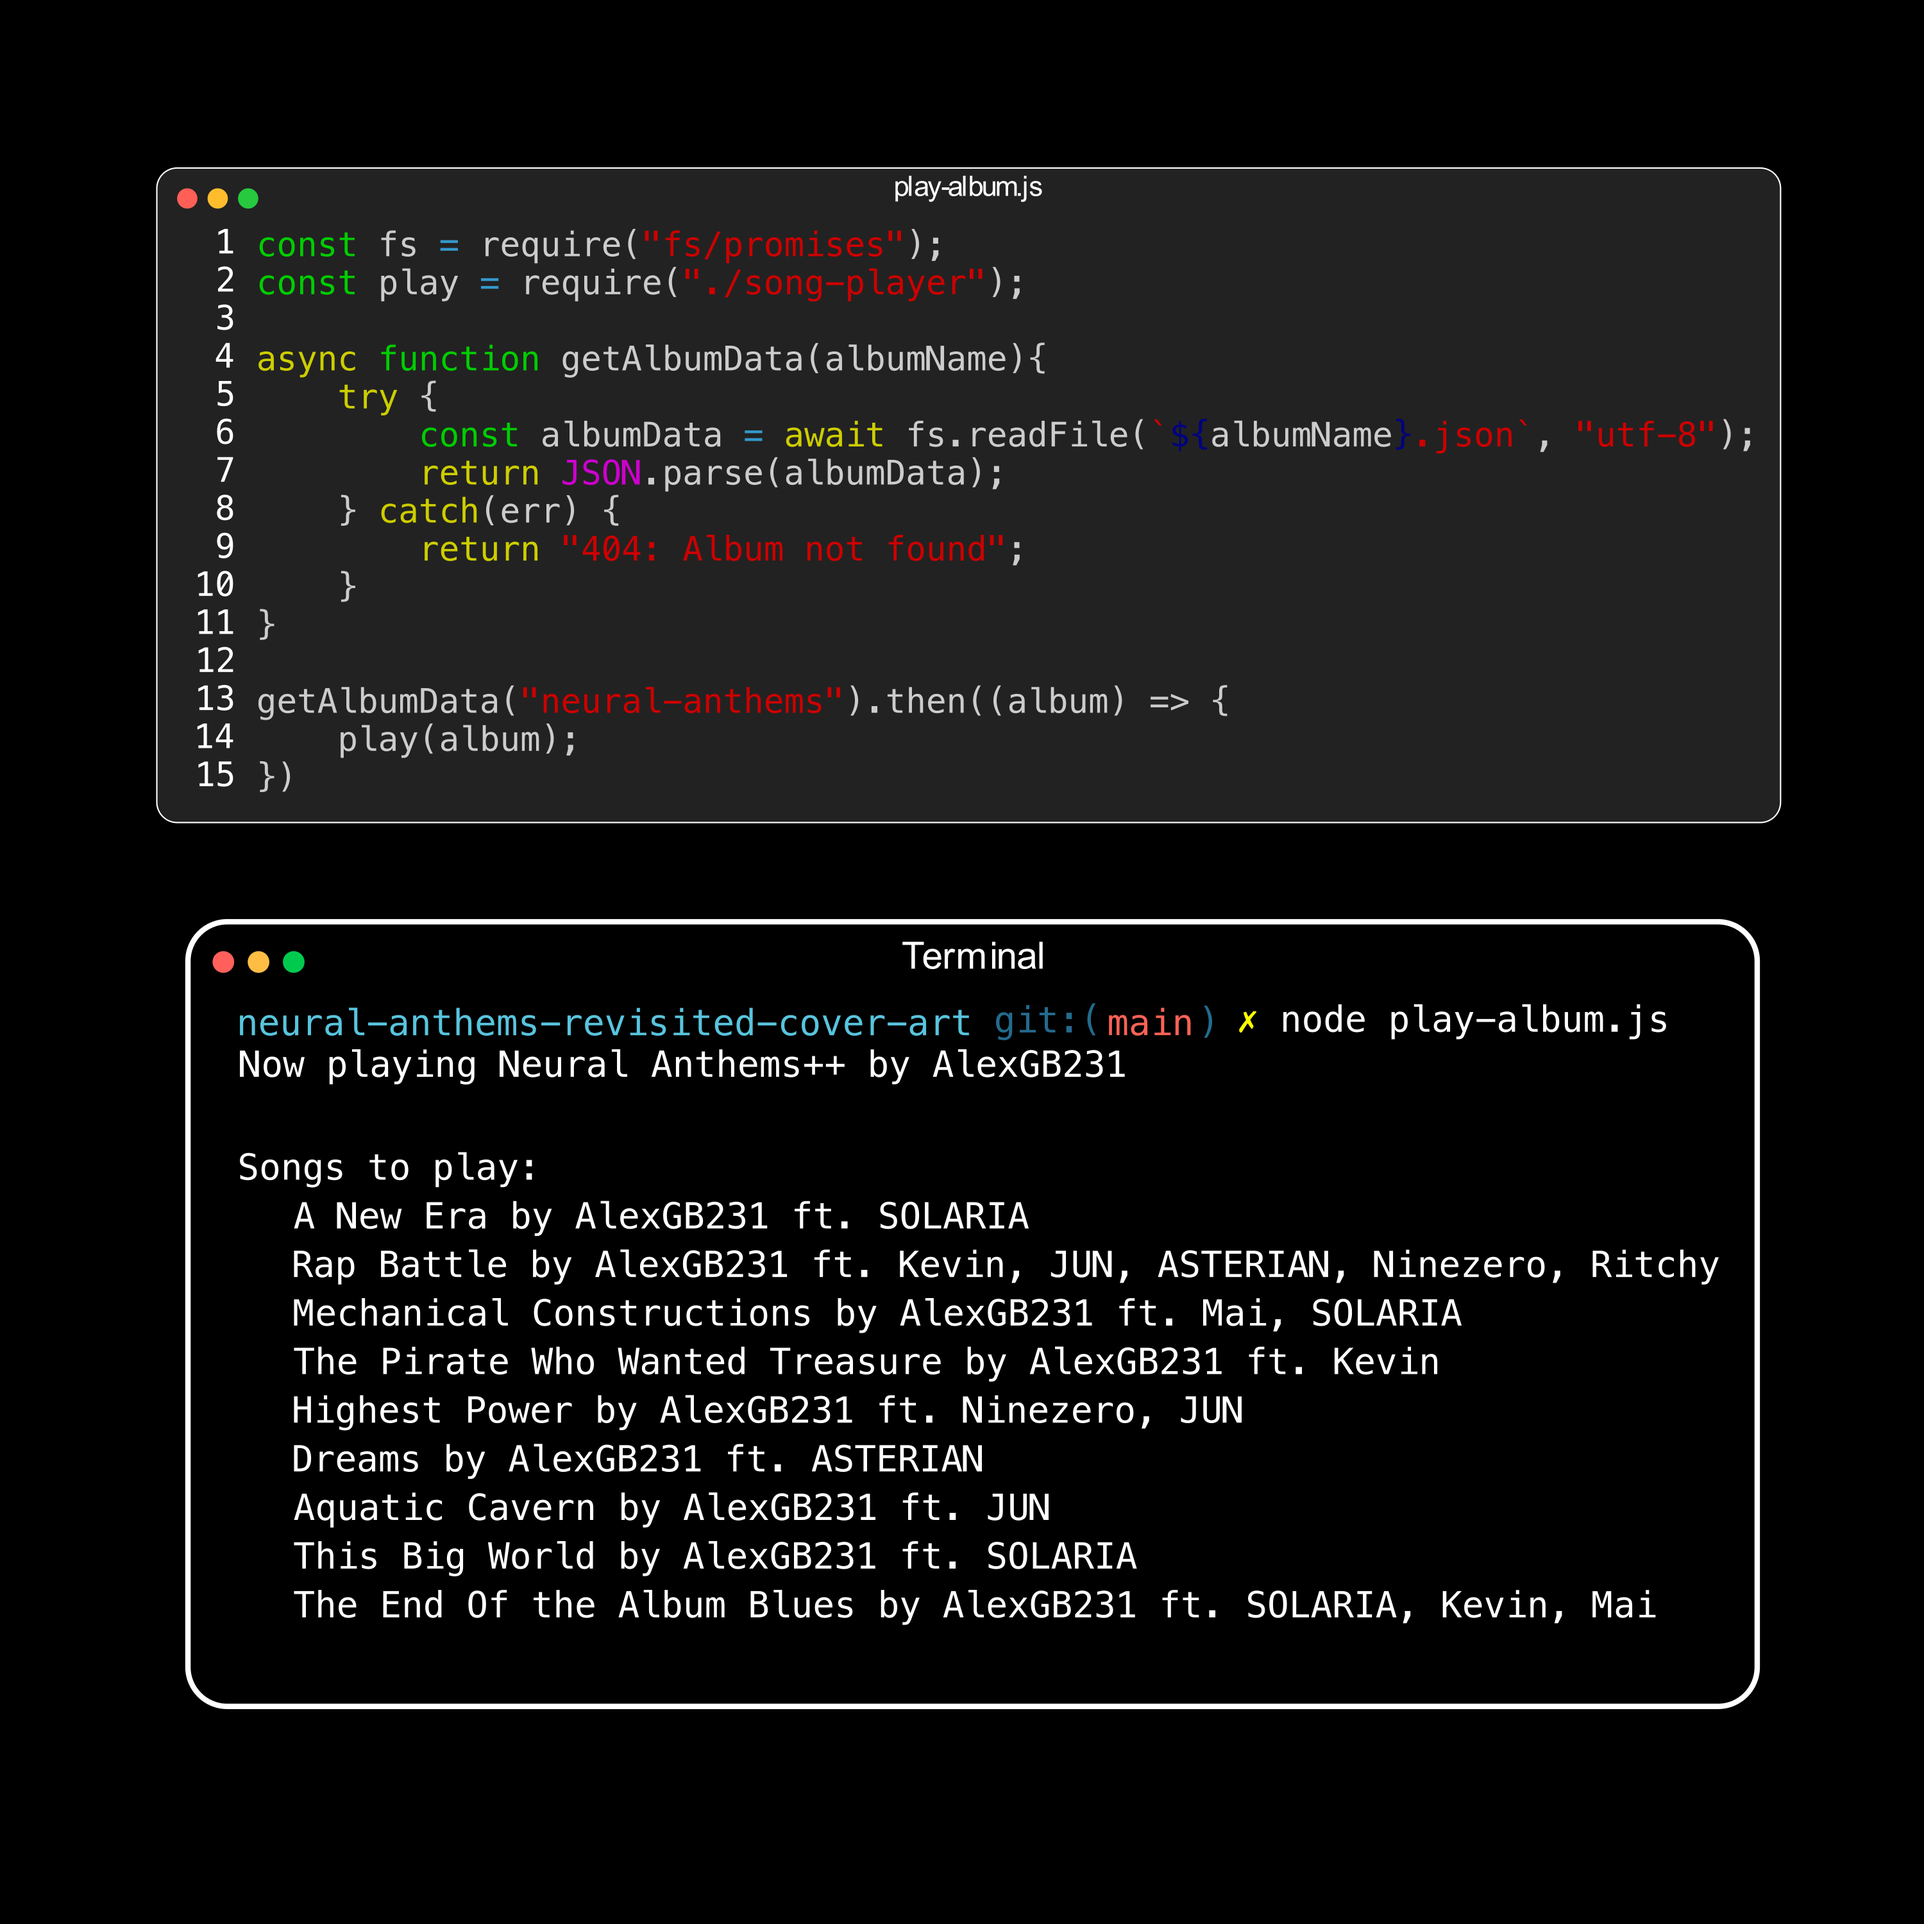
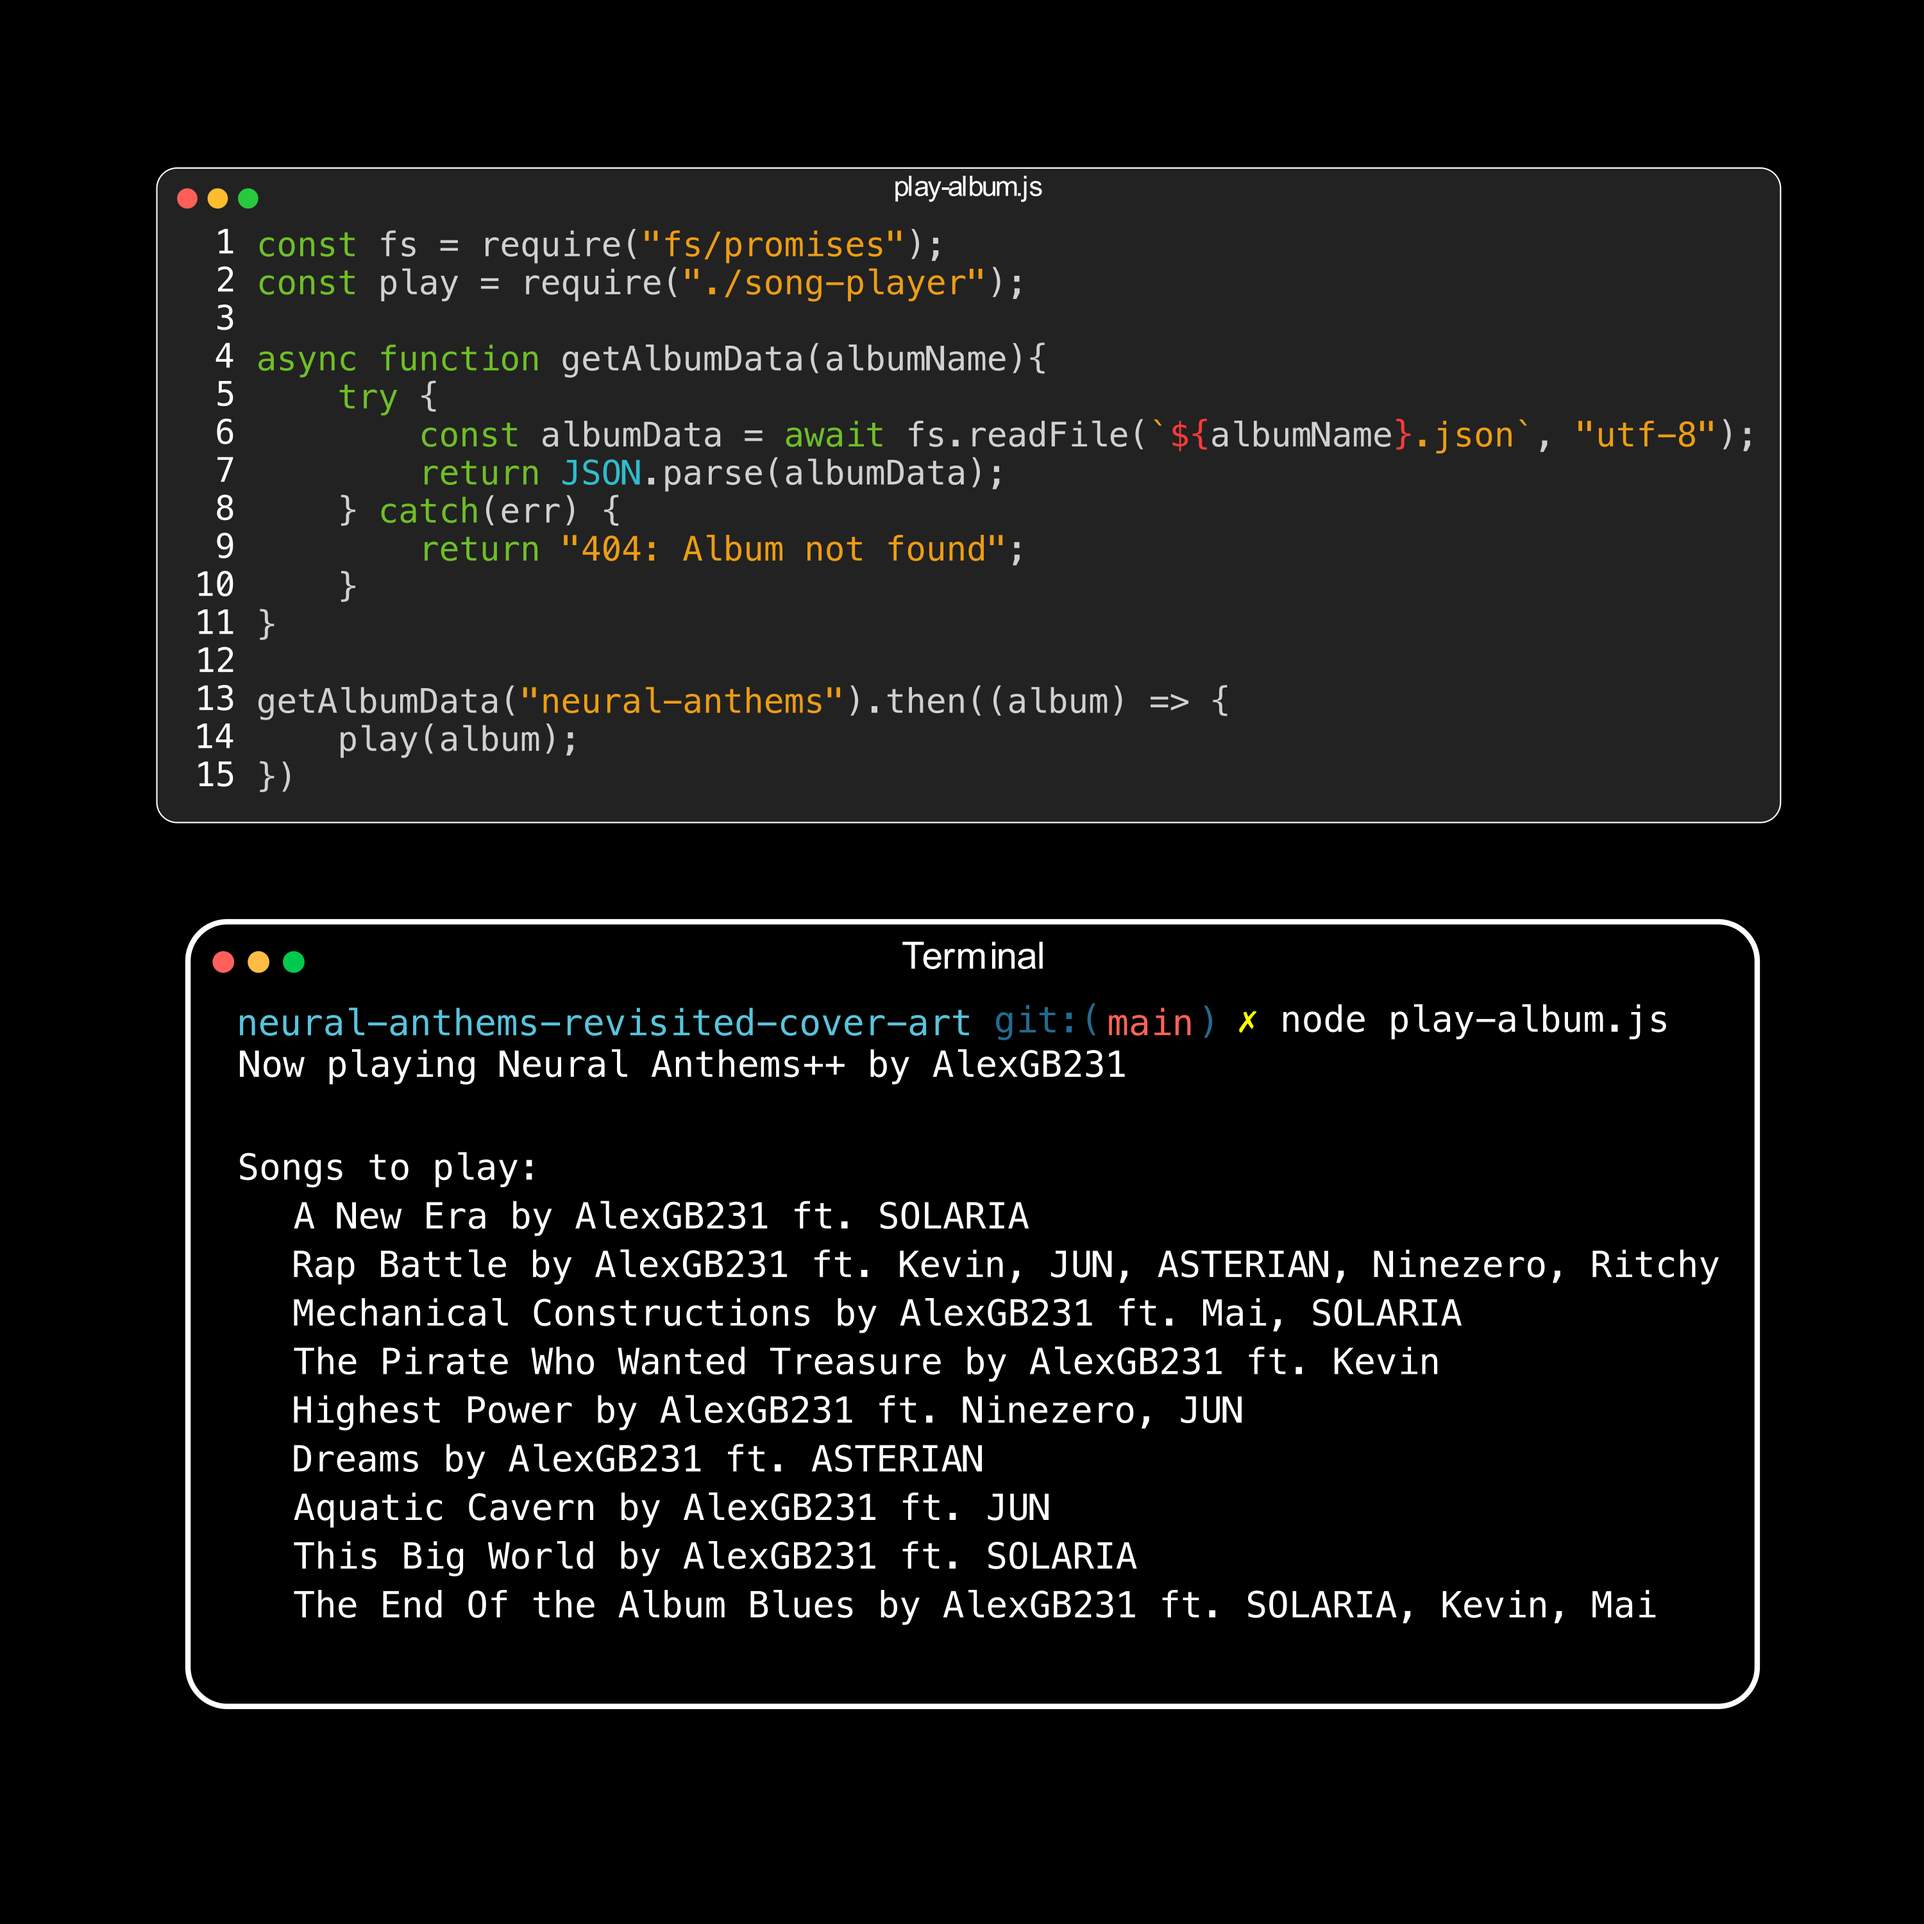
Changed codeblock theme of display-json to be github-dark and display-album-player to be native

diff --git a/display-album-player.py b/display-album-player.py
@@ -4,7 +4,7 @@ from manim import *
 class DisplayAlbumPlayer(Scene):
     def construct(self):
         filename = "play-album.js"
-        code_window = VGroup(Code(code_file=filename, language="Javascript", background="window").scale(0.75).shift(2*UP))
+        code_window = VGroup(Code(code_file=filename, language="Javascript", background="window", formatter_style="native").scale(0.75).shift(2*UP))
         code_window.add(Text(filename, font_size=15, font="Arial").next_to(code_window, UP, buff=-0.25))
 
         code_window.shift(0.4*RIGHT+1.3*UP)

diff --git a/display-json.py b/display-json.py
@@ -4,7 +4,7 @@ from manim import *
 class DisplayJSON(Scene):
     def construct(self):
         filename = "neural-anthems.json"
-        code_window = VGroup(Code(code_file=filename, language="Javascript", background="window").scale(0.5))
+        code_window = VGroup(Code(code_file=filename, language="Javascript", background="window", formatter_style="github-dark").scale(0.5))
         code_window.add(Text(filename, font_size=14, font="Arial").next_to(code_window, UP, buff=-0.25))
 
         code_window.scale(1.15).shift(0.5*RIGHT+0.2*DOWN)
